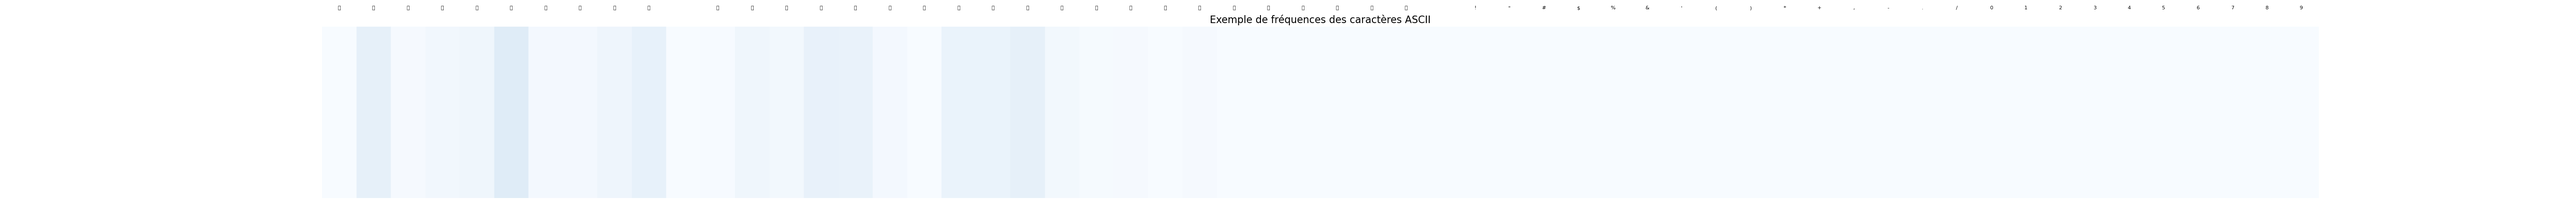
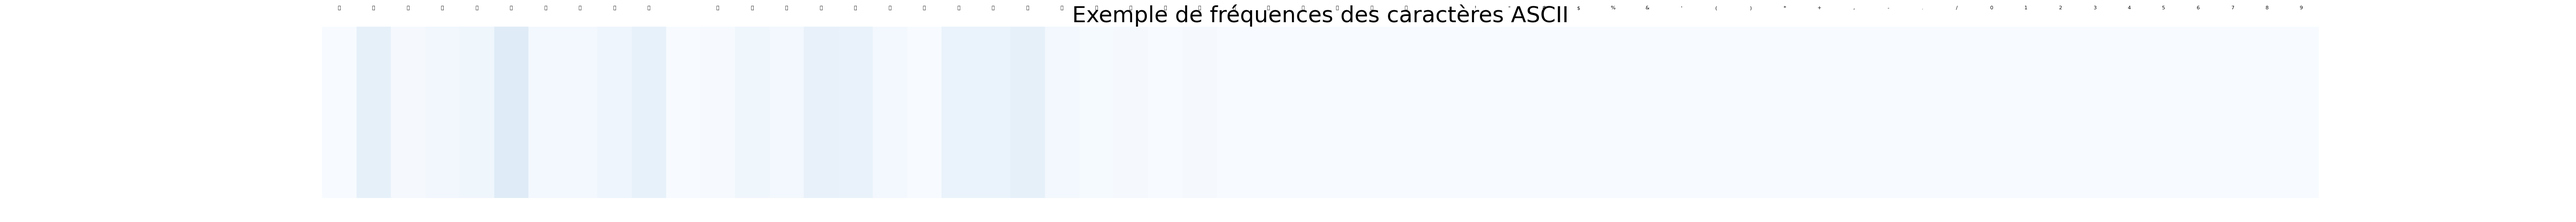
llm

Changed region(s): [[0.4057, 0.03, 0.6241, 0.12]]

diff --git a/visualization/frequency_visualization/frequency_visualisation.py b/visualization/frequency_visualization/frequency_visualisation.py
@@ -48,7 +48,7 @@ def frequency_visualization_zoom(language):
         plt.fill_between([i, i + 1], 0, 1, color=freq)
         plt.text(i + 0.5, 1.1, chr(i), ha='center', fontsize=8)
 
-    plt.title('Exemple de fréquences des caractères ASCII', fontsize=16)
+    plt.title('Exemple de fréquences des caractères ASCII', fontsize=36)
     plt.xlabel('Caractères ASCII')
     plt.ylabel('Fréquence')
 
